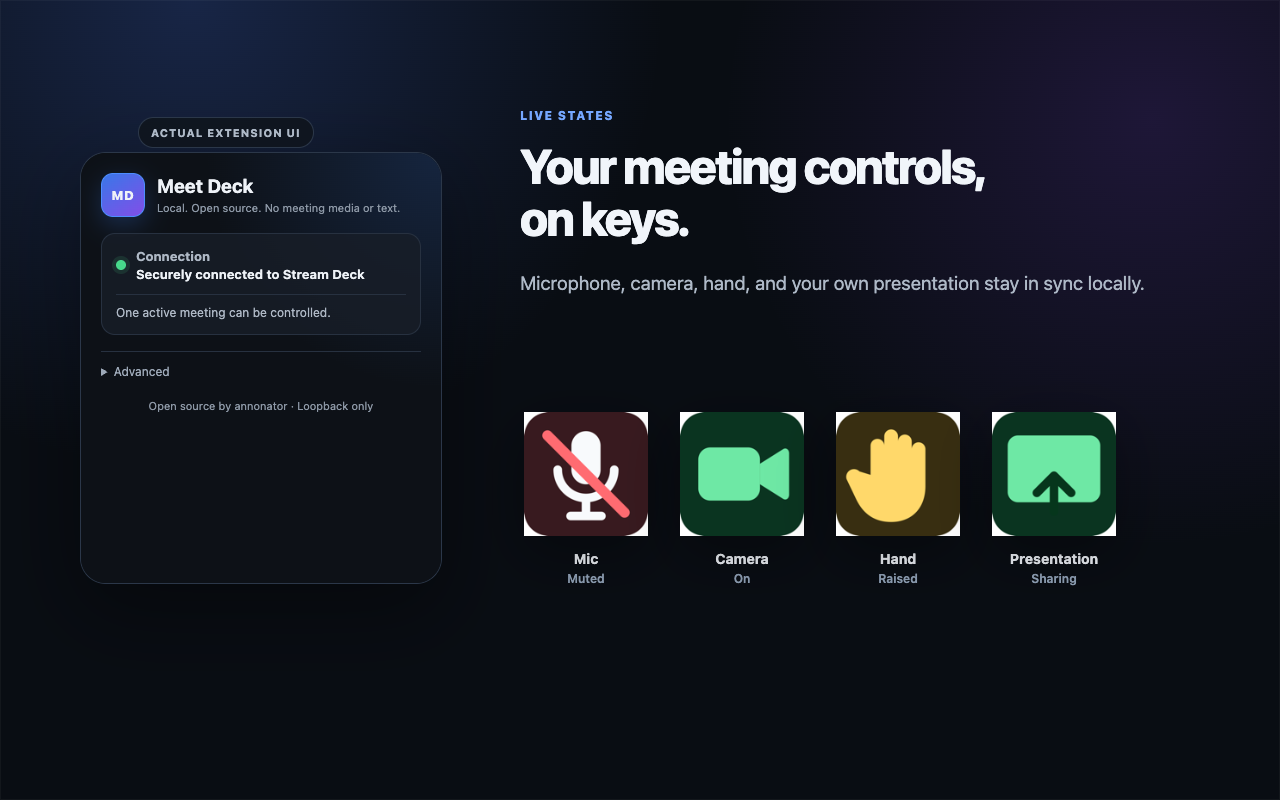
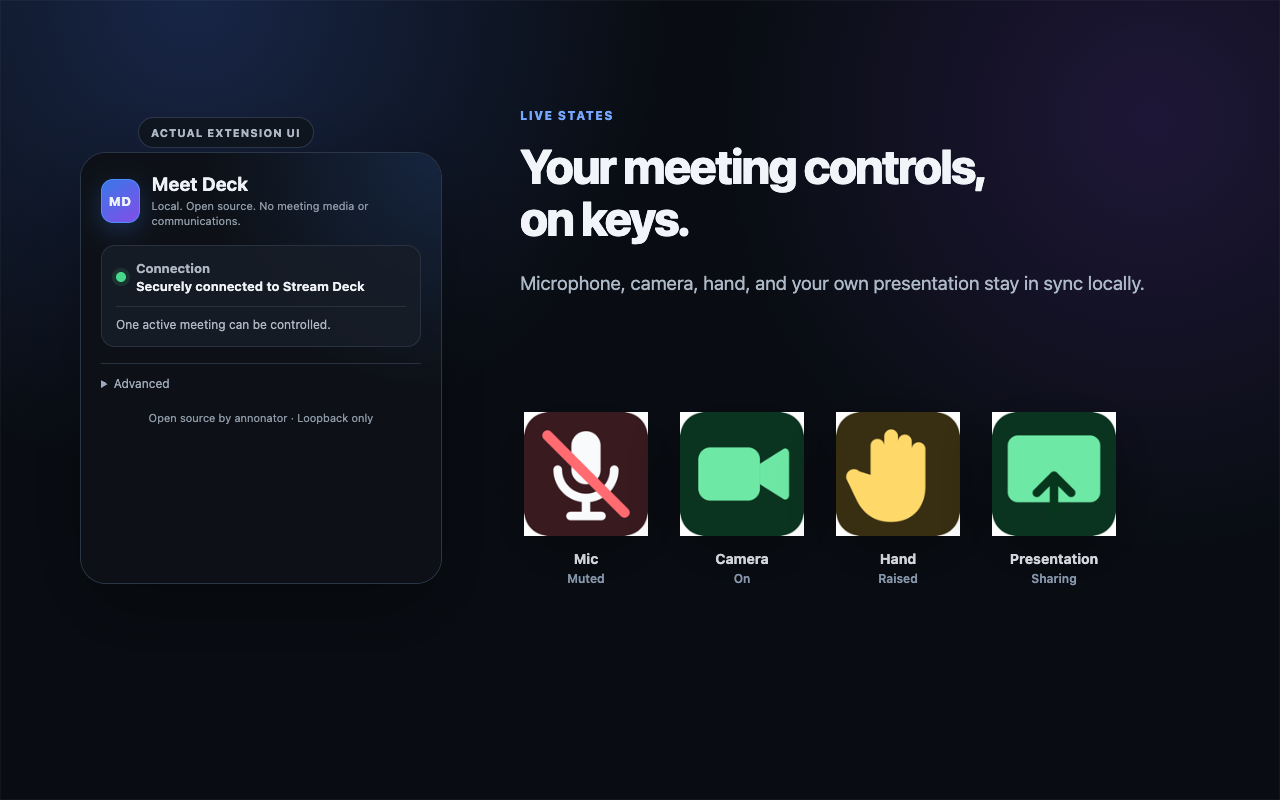
fix: clarify meeting media privacy claims

Changed region(s): [[0.0938, 0.3125, 0.2812, 0.5], [0.0625, 0.2188, 0.3125, 0.2812], [0.125, 0.5, 0.3125, 0.5312]]

diff --git a/apps/chrome-extension/public/onboarding.html b/apps/chrome-extension/public/onboarding.html
@@ -10,7 +10,7 @@
     <main>
       <header>
         <span class="eyebrow" data-i18n="onboarding_eyebrow">Meet Deck · annonator</span>
-        <h1 data-i18n="onboarding_heading">Your meeting media stays in your browser.</h1>
+        <h1 data-i18n="onboarding_heading">Meet Deck does not access meeting media.</h1>
         <p class="lead" data-i18n="onboarding_lead">
           Meet Deck connects Google Meet and Stream Deck only over IPv4 loopback. No cloud, no
           telemetry, and no meeting media or communications.

diff --git a/marketplace/assets/source/artboards.html b/marketplace/assets/source/artboards.html
@@ -1055,7 +1055,7 @@
     <main class="artboard asset-gallery-03-privacy marketplace-background gallery-shell">
       <header class="gallery-heading">
         <span class="eyebrow">Privacy by design</span>
-        <h1>No meeting media leaves the browser.</h1>
+        <h1>No meeting media is sent to the plugin.</h1>
         <p>
           Meet Deck sends finite control state and commands across an authenticated loopback bridge.
         </p>

diff --git a/apps/chrome-extension/public/popup.html b/apps/chrome-extension/public/popup.html
@@ -12,7 +12,7 @@
         <span class="brand__mark" aria-hidden="true">MD</span>
         <div>
           <h1 data-i18n="app_name">Meet Deck</h1>
-          <p data-i18n="popup_tagline">Local. Open source. No meeting media or text.</p>
+          <p data-i18n="popup_tagline">Local. Open source. No meeting media or communications.</p>
         </div>
       </header>
 
